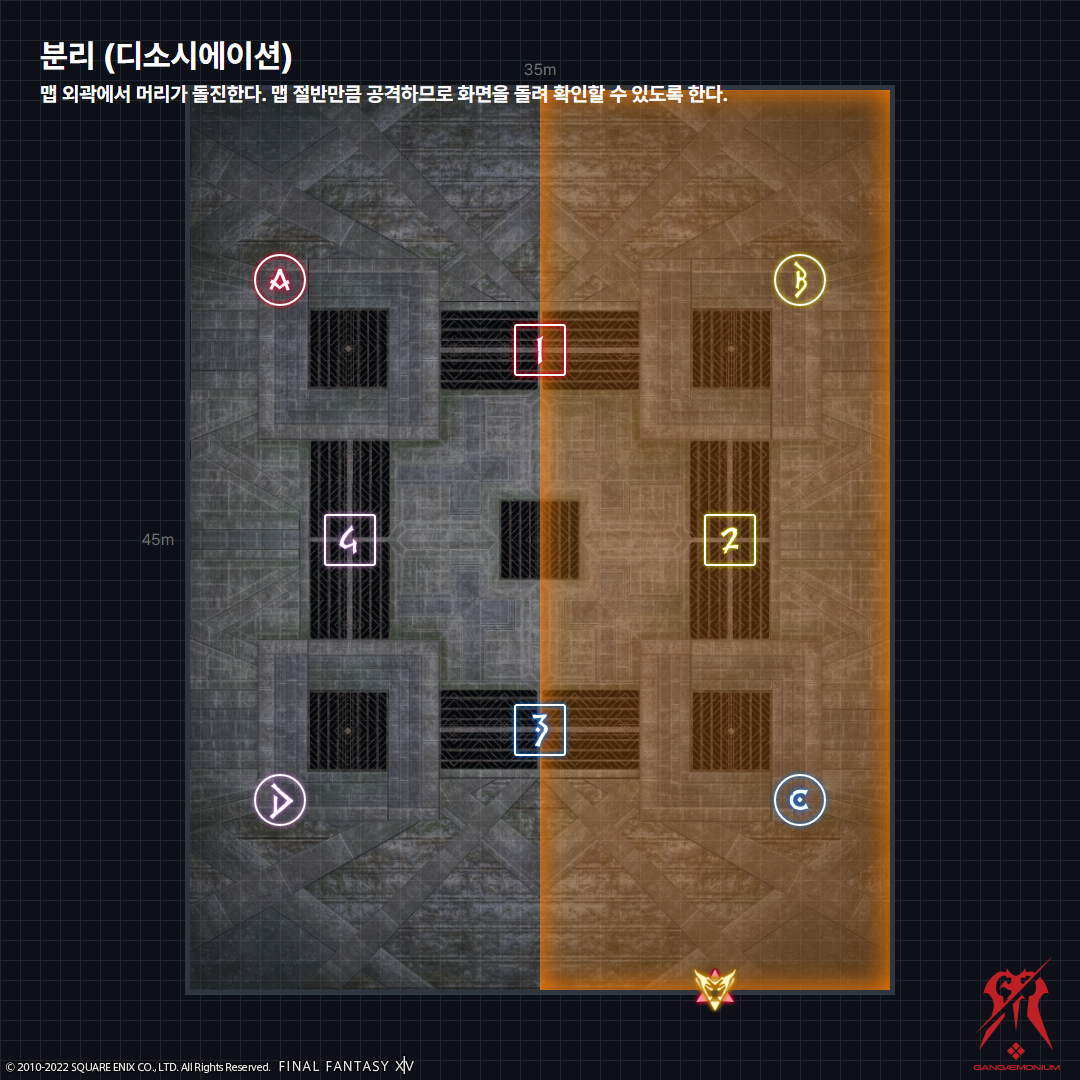
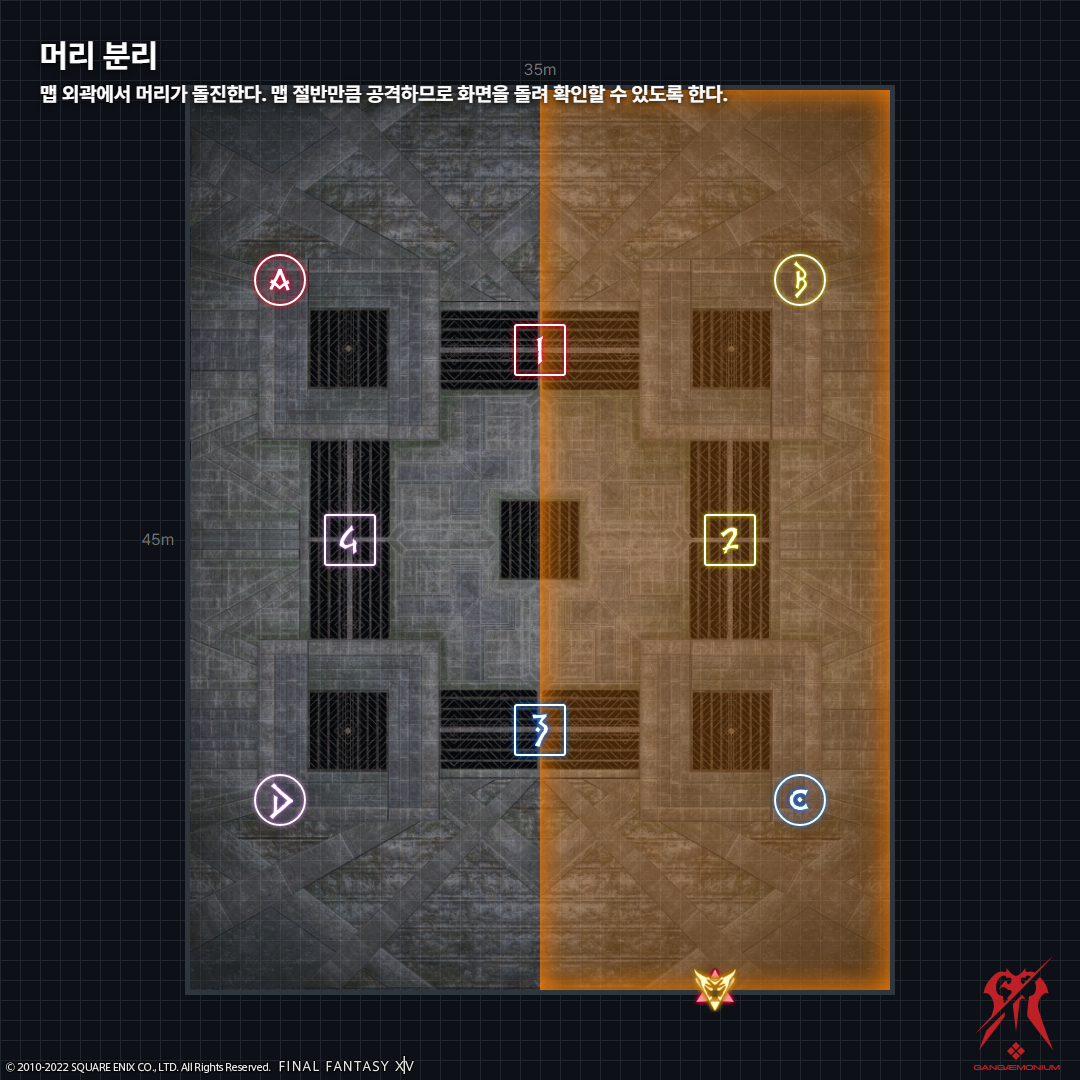
update `p2s`

Changed region(s): [[0.0306, 0.0306, 0.4583, 0.0917], [0.4889, 0.0611, 0.6722, 0.1222]]

diff --git a/p2s/README.md b/p2s/README.md
@@ -40,7 +40,7 @@
     - 탱커/딜러/힐러 각 1인에게 디버프 부여
     - 탱커/딜러: 본인 기준 넓은 범위의 원형 공격, 피격 시 본인 제외 넉백
     - 힐러: 본인 기준 쉐어 공격
-- [분리](#분리-디소시에이션)
+- [머리 분리](#머리-분리)
     - 머리 분리 후 나타나는 위치를 기준으로 맵 절반 공격
 - [하수 분출](#분리하수-분출-처리-i)
     - 전원 발 밑에 원형 장판 3회 생성
@@ -112,11 +112,11 @@
 ## 두번째 전달되는 범람 (채널링 오버플로우) 처리 III
 ![/p2s/images/0034.png](https://raw.githubusercontent.com/Gangaemonium/Asphodelos/main/p2s/images/0034.png)
 > 13초 넉백 인원은 본진으로 다시 모여 쉐어 대미지를 처리,<br>그 뒤 27초 인원은 넉백을 처리한다<br>탱커 리밋을 사용해서 처리해도 되나 탱커의 숙련이 필요하므로 정규 처리 방법을 익혀두자
-## 분리 (디소시에이션)
+## 머리 분리
 ![/p2s/images/0053.png](https://raw.githubusercontent.com/Gangaemonium/Asphodelos/main/p2s/images/0053.png)
 ## 분리+하수 분출 처리 I
 ![/p2s/images/0083.png](https://raw.githubusercontent.com/Gangaemonium/Asphodelos/main/p2s/images/0083.png)
-## 분리+분사+다중 낙인 (디소시에이션+브레스)
+## 분리+숨결+다중 낙인
 ![/p2s/images/0054.png](https://raw.githubusercontent.com/Gangaemonium/Asphodelos/main/p2s/images/0054.png)
 ## 분리+하수 분출 처리 II
 ![/p2s/images/0084.png](https://raw.githubusercontent.com/Gangaemonium/Asphodelos/main/p2s/images/0084.png)
